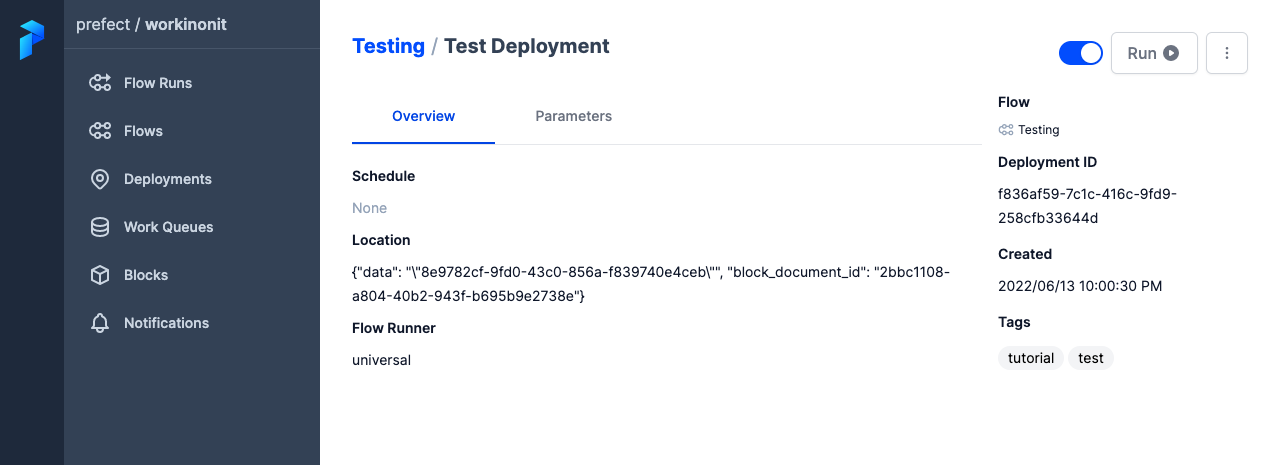
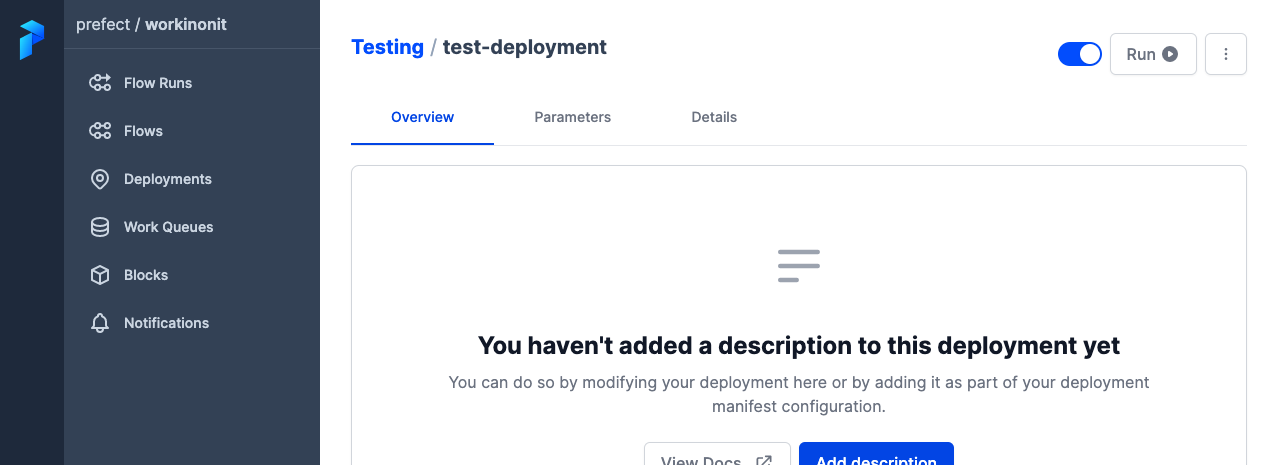
Update cloud getting started deployments

diff --git a/docs/ui/cloud-getting-started.md b/docs/ui/cloud-getting-started.md
@@ -186,7 +186,7 @@ Prefect Cloud now automatically tracks any flow runs in a local execution enviro
 
 To run a flow from a deployment with Prefect Cloud, you'll need to:
 
-- Add a `DeploymentSpec` to your flow definition
+- Create a flow script
 - Create the deployment using the Prefect CLI
 - Configure a [work queue](/ui/work-queues/) that can allocate your deployment's flow runs to agents
 - Start an agent in your execution environment
@@ -194,40 +194,34 @@ To run a flow from a deployment with Prefect Cloud, you'll need to:
 
 ### Create a deployment specification
 
-Go back to your flow code in `basic_flow.py` and update it to look like this, removing the guarded call to `basic_flow()` and replacing it with a `DeploymentSpec` providing some basic settings for the deployment.
+Let's go back to your flow code in `basic_flow.py`. In a terminal, run the `prefect deployment build` Prefect CLI command to build a manifest and `deployment.yaml` file that you'll use to create the deployment on Prefect Cloud.
 
-```python
-from prefect import flow, get_run_logger
-
-@flow(name="Testing")
-def basic_flow():
-    logger = get_run_logger()
-    logger.warning("The fun is about to begin")
-
-from prefect.deployments import DeploymentSpec
-
-DeploymentSpec(
-    flow=basic_flow,
-    name="Test Deployment",
-    tags=['tutorial','test'], 
-)
+<div class="terminal">
+```bash
+$ prefect deployment build ./basic_flow.py:basic_flow -n test-deployment -t test
 ```
+</div>
+
+What did we do here? Let's break down the command:
+
+- `prefect deployment build` is the Prefect CLI command that enables you to prepare the settings for a deployment.
+-  `./basic_flow.py:basic_flow` specifies the location of the flow script file and the name of the entrypoint flow function, separated by a colon.
+- `-n test-deployment` is an option to specify a name for the deployment.
+- `-t test` specifies a tag for the deployment. Tags enable filtering deployment flow runs in the UI and on work queues.
+
+The command outputs two files: `basic_flow-manifest.json` contains workflow-specific information such as the code location, the name of the entrypoint flow, and flow parameters. `deployment.yaml` contains details about the deployment for this flow.
 
 ### Create the deployment
 
-In the terminal, use the `prefect deployment create` command to create the deployment on Prefect Cloud, specifying the name of the `basic_flow.py` file that contains the flow code and deployment specification:
+In the terminal, use the `prefect deployment apply` command to apply the settings contained in the manifest and `deployment.yaml` to create the deployment on Prefect Cloud.
+
+Run the following Prefect CLI command.
 
 <div class="terminal">
-```
-$ prefect deployment create basic_flow.py
-Loading deployment specifications from python script at 'basic_flow.py'...
-Creating deployment 'Test Deployment' for flow 'Testing'...
-Deploying flow script from '/Users/terry/test/testflows/basic_flow.py' using S3 Storage...
-Created deployment 'Testing/Test Deployment'.
-View your new deployment with:
-
-    prefect deployment inspect 'Testing/Test Deployment'
-Created 1 deployments!
+```bash
+$ prefect deployment apply `deployment.yaml`
+Successfully loaded 'test-deployment'
+Deployment '66b3fdea-cd3a-4734-b3f2-65f6702ff260' successfully created.
 ```
 </div>
 
@@ -237,29 +231,19 @@ To demonstrate that your deployment exists, go back to Prefect Cloud and select 
 
 !['Testing/Test Deployment' appears in the Prefect Cloud Deployments page](/img/ui/cloud-test-deployment.png)
 
-### Create a work queue
+### Create a work queue and agent
 
-Next create the work queue that can distribute your new deployment to agents for execution. 
+Next, create a work queue that can distribute your new deployment to agents for execution, and a local agent to pick up the flow run for your 'Testing/Test Deployment' deployment. 
 
-In Prefect Cloud, select the **Work Queues** page, then select the **+** button to create a new work queue. Fill out the form as shown here, noting in particular to create the `test` tag on the queue. Note that this matches the `tags=['tutorial','test']` tag created on the deployment specification.
+In Prefect Cloud, you can create a work queue by selecting the **Work Queues** page, then creating a new work queue. 
 
-![Creating a work queue for test flows in Prefect Cloud](/img/ui/cloud-test-work-queue.png)
+However, we can also use a Prefect CLI convenience command: starting your agent with a set of tags will create a work queue for you that serves deployments with those tags. This is handy for quickly standing up a test environment, for example.
 
-Select **Submit** to create the queue. 
-
-When you go back to the **Work Queues** page, you'll see your new queue in the list.
-
-![Viewing the new work queue for test flows in Prefect Cloud](/img/ui/cloud-test-queues.png)
-
-### Run an agent
-
-Now that you have a work queue to allocate flow runs, you can run an agent to pick up flow runs from that queue.
-
-In your terminal, run the `prefect agent start` command, passing the name of the `test-queue` work queue you just created.
+In your terminal, run the `prefect agent start` command, passing a `-t test` option that creates a work queue for `test` tags.
 
 <div class="terminal">
 ```
-$ prefect agent start 'test-queue'
+$ prefect agent start -t test
 Starting agent connected to https://api-beta.prefect.io/api/accounts/...
 
   ___ ___ ___ ___ ___ ___ _____     _   ___ ___ _  _ _____
@@ -268,7 +252,7 @@ Starting agent connected to https://api-beta.prefect.io/api/accounts/...
  |_| |_|_\___|_| |___\___| |_|   /_/ \_\___|___|_|\_| |_|
 
 
-Agent started! Looking for work from queue 'test-queue'...
+Agent started! Looking for work from queue 'Agent queue test'...
 ```
 </div>
 

diff --git a/docs/concepts/filesystems.md b/docs/concepts/filesystems.md
@@ -77,11 +77,6 @@ minio_file_packager = FilePackager(
         }
     )
 )
-Deployment(
-    flow=give_greeting,
-    name="minio_file_package_with_remote_s3fs",
-    packager=minio_file_packager
-)
 ```
 
 Now let's look at how we can use `RemoteFileSystem` with AWS S3:
@@ -94,11 +89,6 @@ aws_s3_file_packager = FilePackager(filesystem=RemoteFileSystem(
         "secret": AWS_SECRET_ACCESS_KEY
     }
 ))
-Deployment(
-    flow=give_greeting,
-    name="aws_s3_file_package_with_remote_s3fs",
-    packager=aws_s3_file_packager
-)
 ```
 
 ## Saving and loading file systems
@@ -126,7 +116,7 @@ Prefect provides two abstract file system types, `ReadableFileSystem` and `Write
 - All writeable file systems must implement `write_path` which takes a file path and content and writes the content to the file as bytes. 
 
 A file system may implement both of these types.
-
+<!-- 
 ## Examples
 What does a working example of a MinIO-backed S3 storage block look like within a Prefect flow?
 
@@ -166,4 +156,4 @@ if __name__ == "__main__":
     give_greeting()
 ```
 
-Starting a MinIO server should output logs including login credentials that can be used as your `MINIO_ROOT_USER` and `MINIO_ROOT_PASSWORD`.
+Starting a MinIO server should output logs including login credentials that can be used as your `MINIO_ROOT_USER` and `MINIO_ROOT_PASSWORD`. -->
